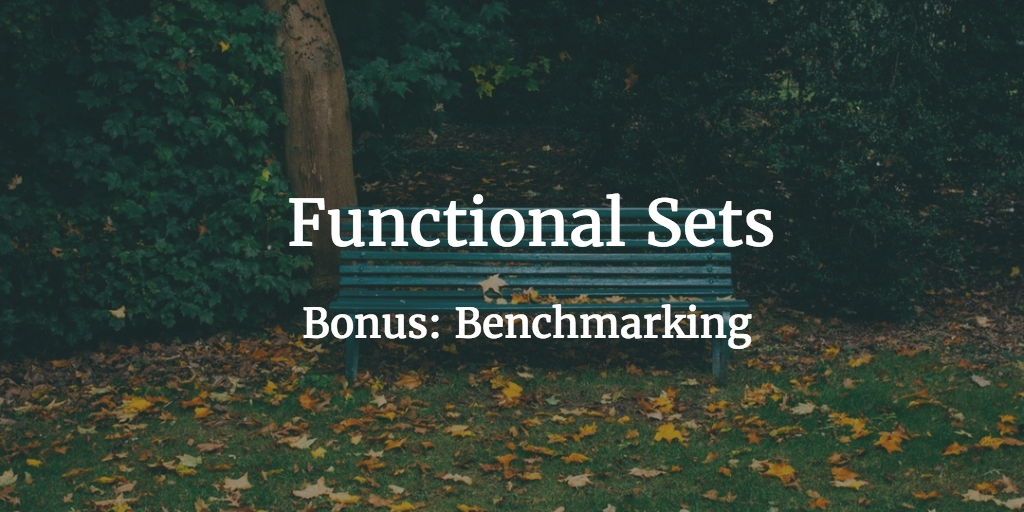
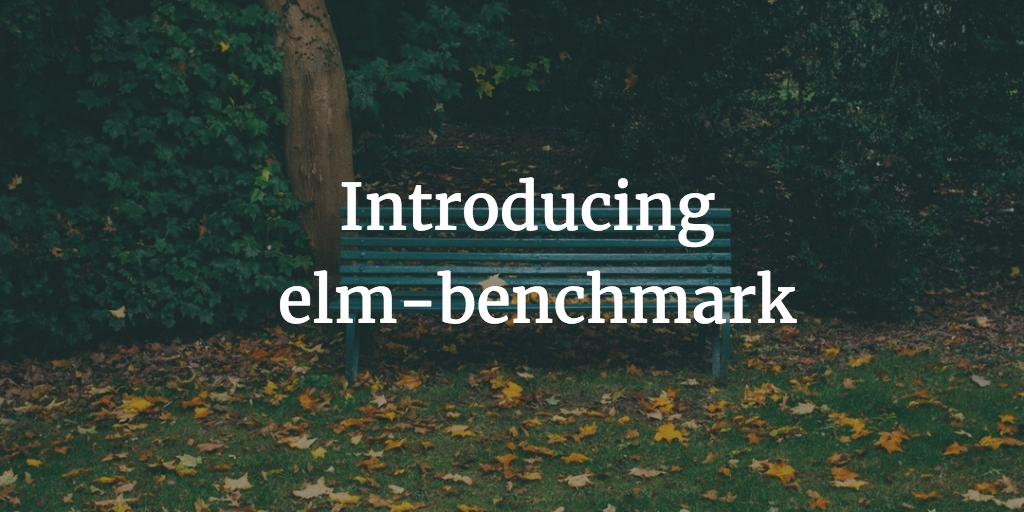
post(sets-benchmarking): publish

Changed region(s): [[0.25, 0.5312, 0.7812, 0.6875], [0.2812, 0.3438, 0.7812, 0.5]]

diff --git a/content/post/introducing-elm-benchmark.md b/content/post/introducing-elm-benchmark.md
@@ -1,45 +1,29 @@
 ---
 date: "2017-02-27T09:00:00-06:00"
-title: "Functional Sets Bonus: Benchmarking"
-tags: ["elm", "sets"]
+title: "Introducing elm-benchmark"
+tags: ["elm"]
 featureimage: "/images/bench-by-will-paterson.png"
 thumbnail: "/images/bench-by-will-paterson-with-title.png"
 section: "Technology"
-draft: true
 
 ---
 
 After the [sets series]({{< ref "sets-intro.md" >}}) finished, I got really curious&hellip;
 How fast were these sets, exactly?
-I had to shave a lot of yaks to answer that question.
-
-To sum up: Elm now has a benchmarking library at [`BrianHicks/elm-benchmark`](https://github.com/brianhicks/elm-benchmark).
+I had to shave a lot of yaks to answer that question, but to sum up: Elm now has a [benchmarking library](http://package.elm-lang.org/packages/BrianHicks/elm-benchmark/latest)!
 Let's take a look at how to use it!
 
 <!--more-->
 
-## `BrianHicks/elm-avl-exploration`
-
-I've pushed the code from the series to [BrianHicks/elm-avl-exploration](https://github.com/BrianHicks/elm-avl-exploration) with a few changes:
-
-- It's `Dict` now instead of `Set`.
-  I did this so I could compare `Dict` to `Dict`.
-  A head-to-head comparison is fairer than comparing `Dict` to `Set`.
-- The library has some optimizations that aren't in the series.
-  Specifically `Singleton`, a third case of `Dict` that represents *only* a leaf node.
-  I found this optimization using benchmarking!
-  Hooray!
-
-Let's check out how to use `elm-benchmark` to measure this `Dict.Avl` against `Dict`:
-
 ## Our First Benchmark
 
-The basic building blocks of `elm-benchmark` are `benchmark` through `benchmark8`.
+The basic building blocks of `elm-benchmark` are [`benchmark` through `benchmark8`](http://package.elm-lang.org/packages/BrianHicks/elm-benchmark/1.0.1/Benchmark#benchmark).
 The number refers to the *arity* of a function (the number of arguments).
-So a benchmark for `get : comparable -> Dict comparable b -> Maybe b` would look like this:
+So a benchmark for `Dict.get` (`get : comparable -> Dict comparable b -> Maybe b`) would look like this:
 
 ```elm
 import Benchmark exposing (Benchmark)
+import Dict
 
 
 get : Benchmark
@@ -50,8 +34,8 @@ get =
 All the benchmarking functions take a name as their first argument.
 For a single benchmark this can look pretty silly, but you'll usually have a bunch of benchmarks and need to know which is which.
 
-To run this benchmark, we'll use `Benchmark.Runner.program`.
-It takes any `Benchmark`, and will run it in the browser once compiled.
+To run this benchmark, we'll use [`Benchmark.Runner.program`](http://package.elm-lang.org/packages/BrianHicks/elm-benchmark/1.0.1/Benchmark-Runner#program).
+It takes any `Benchmark` and runs it in the browser, once compiled.
 
 ```elm
 import Benchmark.Runner exposing (BenchmarkProgram, program)
@@ -61,6 +45,8 @@ main : BenchmarkProgram
 main =
     program get
 ```
+
+([Run this example on Ellie](https://ellie-app.com/vTDNPCLyZ5a1/1))
 
 ## Adding More Benchmarks
 
@@ -99,6 +85,8 @@ suite =
             ]
 ```
 
+([Run this example on Ellie](https://ellie-app.com/vTJDQ4Ltd2a1/0))
+
 This lets us share benchmark fixtures.
 Thanks to Elm's immutability guarantees, we can do this without influencing our measurements.
 
@@ -115,10 +103,12 @@ Here's how we do that for `get`:
 insert : Benchmark
 insert =
     Benchmark.compare "get"
-        (Benchmark.benchmark2 "Dict.Avl" Avl.get "a" (Avl.singleton "a" 1))
         (Benchmark.benchmark2 "Dict" Dict.get "a" (Dict.singleton "a" 1))
+        (Benchmark.benchmark2 "Dict.AVL" AVL.get "a" (AVL.singleton "a" 1))
 
 ```
+
+([Run this example on Ellie](https://ellie-app.com/vTJDQ4Ltd2a1/1))
 
 When you run this, `elm-benchmark` will run both of these benchmarks, then compare their results.
 
@@ -131,4 +121,4 @@ You can get help by [opening an issue against `elm-benchmark`](https://github.co
 
 Have fun!
 
-{{< setsSeriesSignup >}}
+{{< elmSignup >}}
